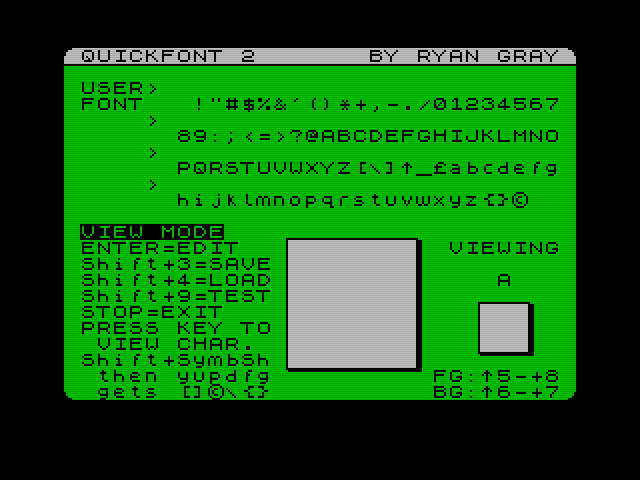
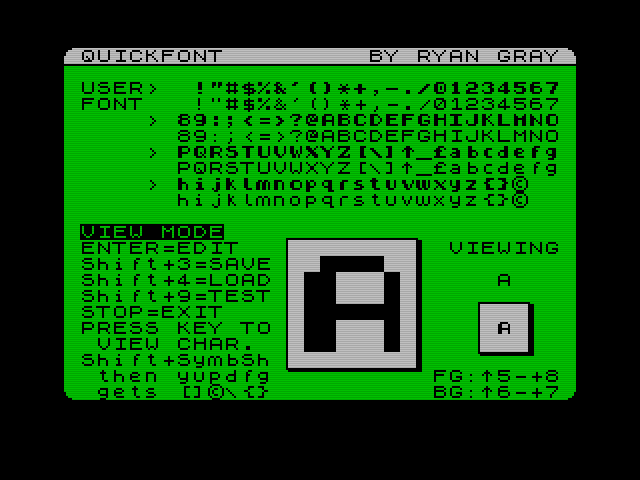
Version 2.1 Several small changes, including improvements to the exit screen saying how to use the font. I better optimized the edit key loop to make it more responsive. An improvement in test mode when typing near the end of a line or bottom of the screen.

diff --git a/README.md b/README.md
@@ -8,16 +8,6 @@ from a listing made on the TS 2040 thermal printer that I kept with lots of
 other printouts for many years. I then started to fix a few bugs and make
 improvements all these years later.
 
-This is version 2.0a where I started to make improvements and fix a few issues.
-It adds foreground color changing for the preview box and shortcuts for 
-selecting most of the extended mode characters. It also adds using the arrow 
-keys to move the edit cursor around, mostly since emulators map the arrow keys 
-to the Sinclair cursor keys (shifted 5 to 8).
-
-Version 2.0 was pretty much as it was in the printed listing with a few flaws
-and probably not the last version I made, but it will be a while before I get to
-resurrecting files from my old tapes.
-
 --- Ryan Gray
 
 ## User Fonts
@@ -240,3 +230,28 @@ You could also do these operations in your own program to have it use your font.
 Just be aware that the `CLEAR` command with a memory address also does clear the 
 variables like the regular `CLEAR` command, so you will need to do that at the 
 beginning of your program before setting variables.
+
+## Revision History
+
+### Version 2.0 - 4 September 1985
+This was pretty much as it was in the printed listing with a few flaws and 
+probably not the last version I made, but it will be a while before I get to
+resurrecting files from my old tapes.
+
+### Version 2.0a - 6 June 2022
+I started to make improvements and fix a few issues.
+It adds foreground color changing for the preview box and shortcuts for 
+selecting most of the extended mode characters. It also adds using the arrow 
+keys to move the edit cursor around, mostly since emulators map the arrow keys 
+to the Sinclair cursor keys (shifted 5 to 8).
+
+### Version 2.1 - 11 June 2022
+I started to change the look a bit more. I don't remember why I used uppercase 
+so much; it gave it a ZX81 look. I think I didn't like the lowercase in the 
+Sinclair font very much, so was avoiding it whereas everyone else was mad about 
+it since it was new and not too many micros at the time had lowercase.
+
+Several small changes, including improvements to the exit screen saying how to 
+use the font. I better optimized the edit key loop to make it more responsive.
+An improvement in test mode when typing near the end of a line or bottom of the 
+screen.
